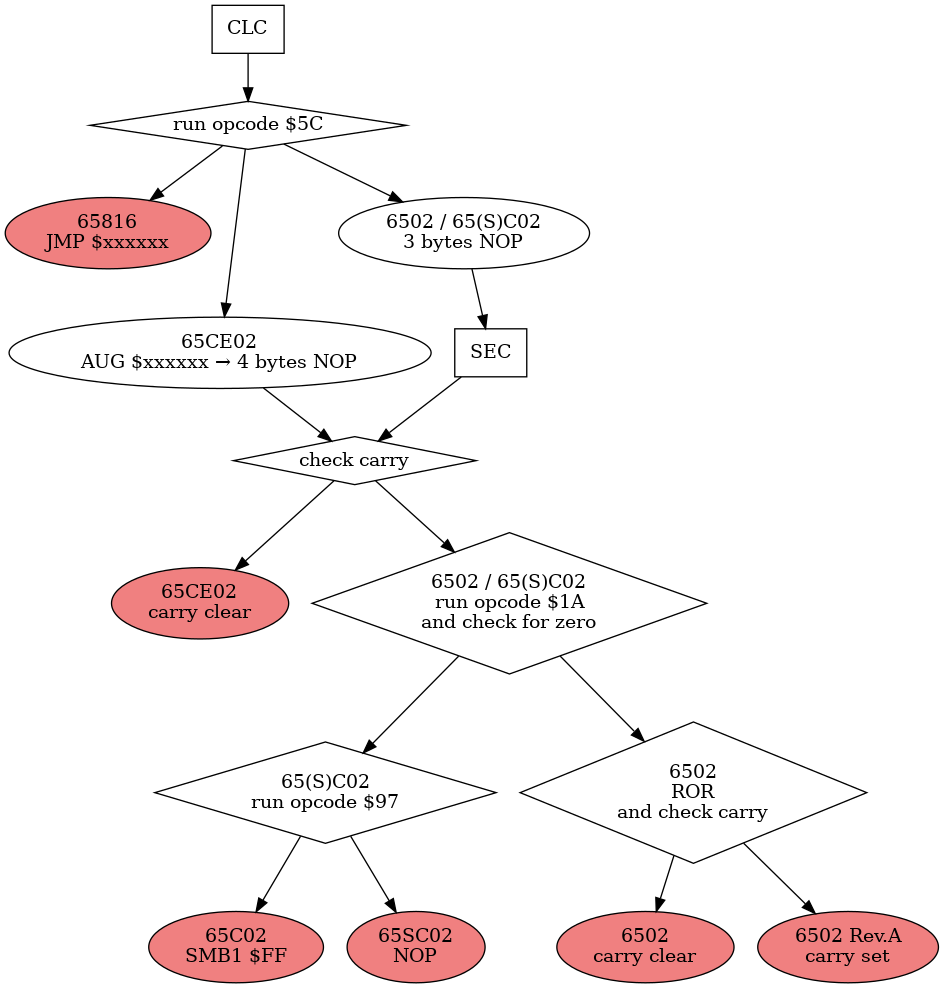
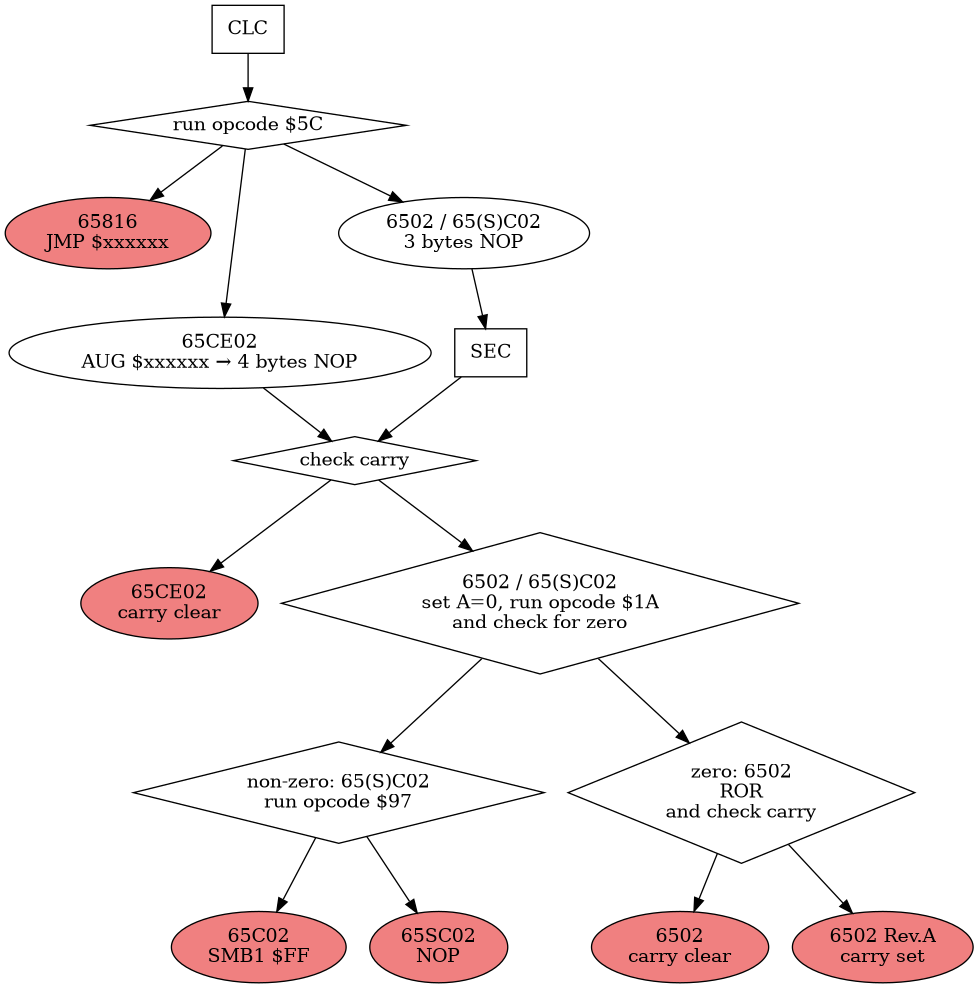
doc: updates to current state and note about being unstable right now

diff --git a/doc/site/jam/memory_map_io_registers.md b/doc/site/jam/memory_map_io_registers.md
@@ -258,11 +258,13 @@ of the `BRK` opcode for kernel interrupts. Possible arguments are:
 - $0A: VT100: several screen functions: Y=specify function (see below)
 - $0B: copy BIOS ($FF00-$FFFF) from ROM to RAM
 - $0C: input a text line from console (pointer in X/A, Y: size of input ($00-$7F), add $80 for only upper case)
-- $0D: fill a page of RAM with sine data (X: bits 7,6 offset, 5 fractions, 4-0 amplitude ($01-$10), A: page)
+- $0D: fill a page of RAM with sine data (A: bits 7,6 offset, 5 fractions, 4-0 amplitude ($01-$10), X: page)
 - $0E: jump to System Monitor
 - $0F: setup FB32x32 LED Matrix (framebuffer start: X/A. Y=$01 clear)
-- $10: prdec8: output accumulator as 3 digit decimal value with leading zeros
-- $11: prdec16: output X and accumulator as 5 digit decimal value with leading zeros
+- $10: enter SWEET16 interpreter
+- $11: prdec8: output accumulator as 3 digit decimal value with leading zeros
+- $12: prdec16: output X and accumulator as 5 digit decimal value with leading zeros
+- $13: fill page with an ascending order of bytes, so low byte matches data byte (X: page)
 
 For an own interrupt handler invoked via $DF78/9, it is recommended to
 use interrupt arguments starting with $80, as those won't be used by the

diff --git a/doc/site/jam/sweet16.md b/doc/site/jam/sweet16.md
@@ -533,7 +533,7 @@ Example:
 | NP ea | $0E | $xx | no operation, reading dummy argument |
 | NP ea | $0F | $xx | no operation, reading dummy argument |
 
-These opcodes do nothing like the 6502 NOP instruction. Unlike that
+These opcodes do nothing similar to the 6502 NOP instruction. Unlike that
 instruction, it also reads the following byte, so they behave more like
 a branch never taken.
 
@@ -581,10 +581,10 @@ However, these could be used for further expansions.
 ## Sorbus Implementation Differences
 
 There are a few things that are done differently in the Sorbus port of
-SWEET16 as compared to the original.
+SWEET16 compared to the original.
 
 - SWEET16 is invoked using BRK #$10 instead of JSR $xxxx
 - BK does not execute a 6502 BRK, but triggers the TRAP to meta-mode
-  (for details see [BK description below](#bk))
+  (for details see [BK description above](#bk))
 - when R12 is zero (stack for [BS instruction](#bs)), it will be
   initialized to $0100 upon startup of SWEET16

diff --git a/doc/site/jam/index.md b/doc/site/jam/index.md
@@ -17,6 +17,12 @@ the core in flash, using the following commands:
 (This is a subject to change, because it's now possible to create a UF2
 file with everything firmware, but this seems not to be fully supported.)
 
+NOTE: This documentation describes the current state of development, which
+currently takes place in development the branch `bios_65816_native`. It
+will be merged when it is capable to run
+[1k LEDs Is No Limit (2025)](https://xayax.net/1k_leds_is_no_limit/)
+without any graphic glitches.
+
 ---
 
 ## Supported CPU Variants
